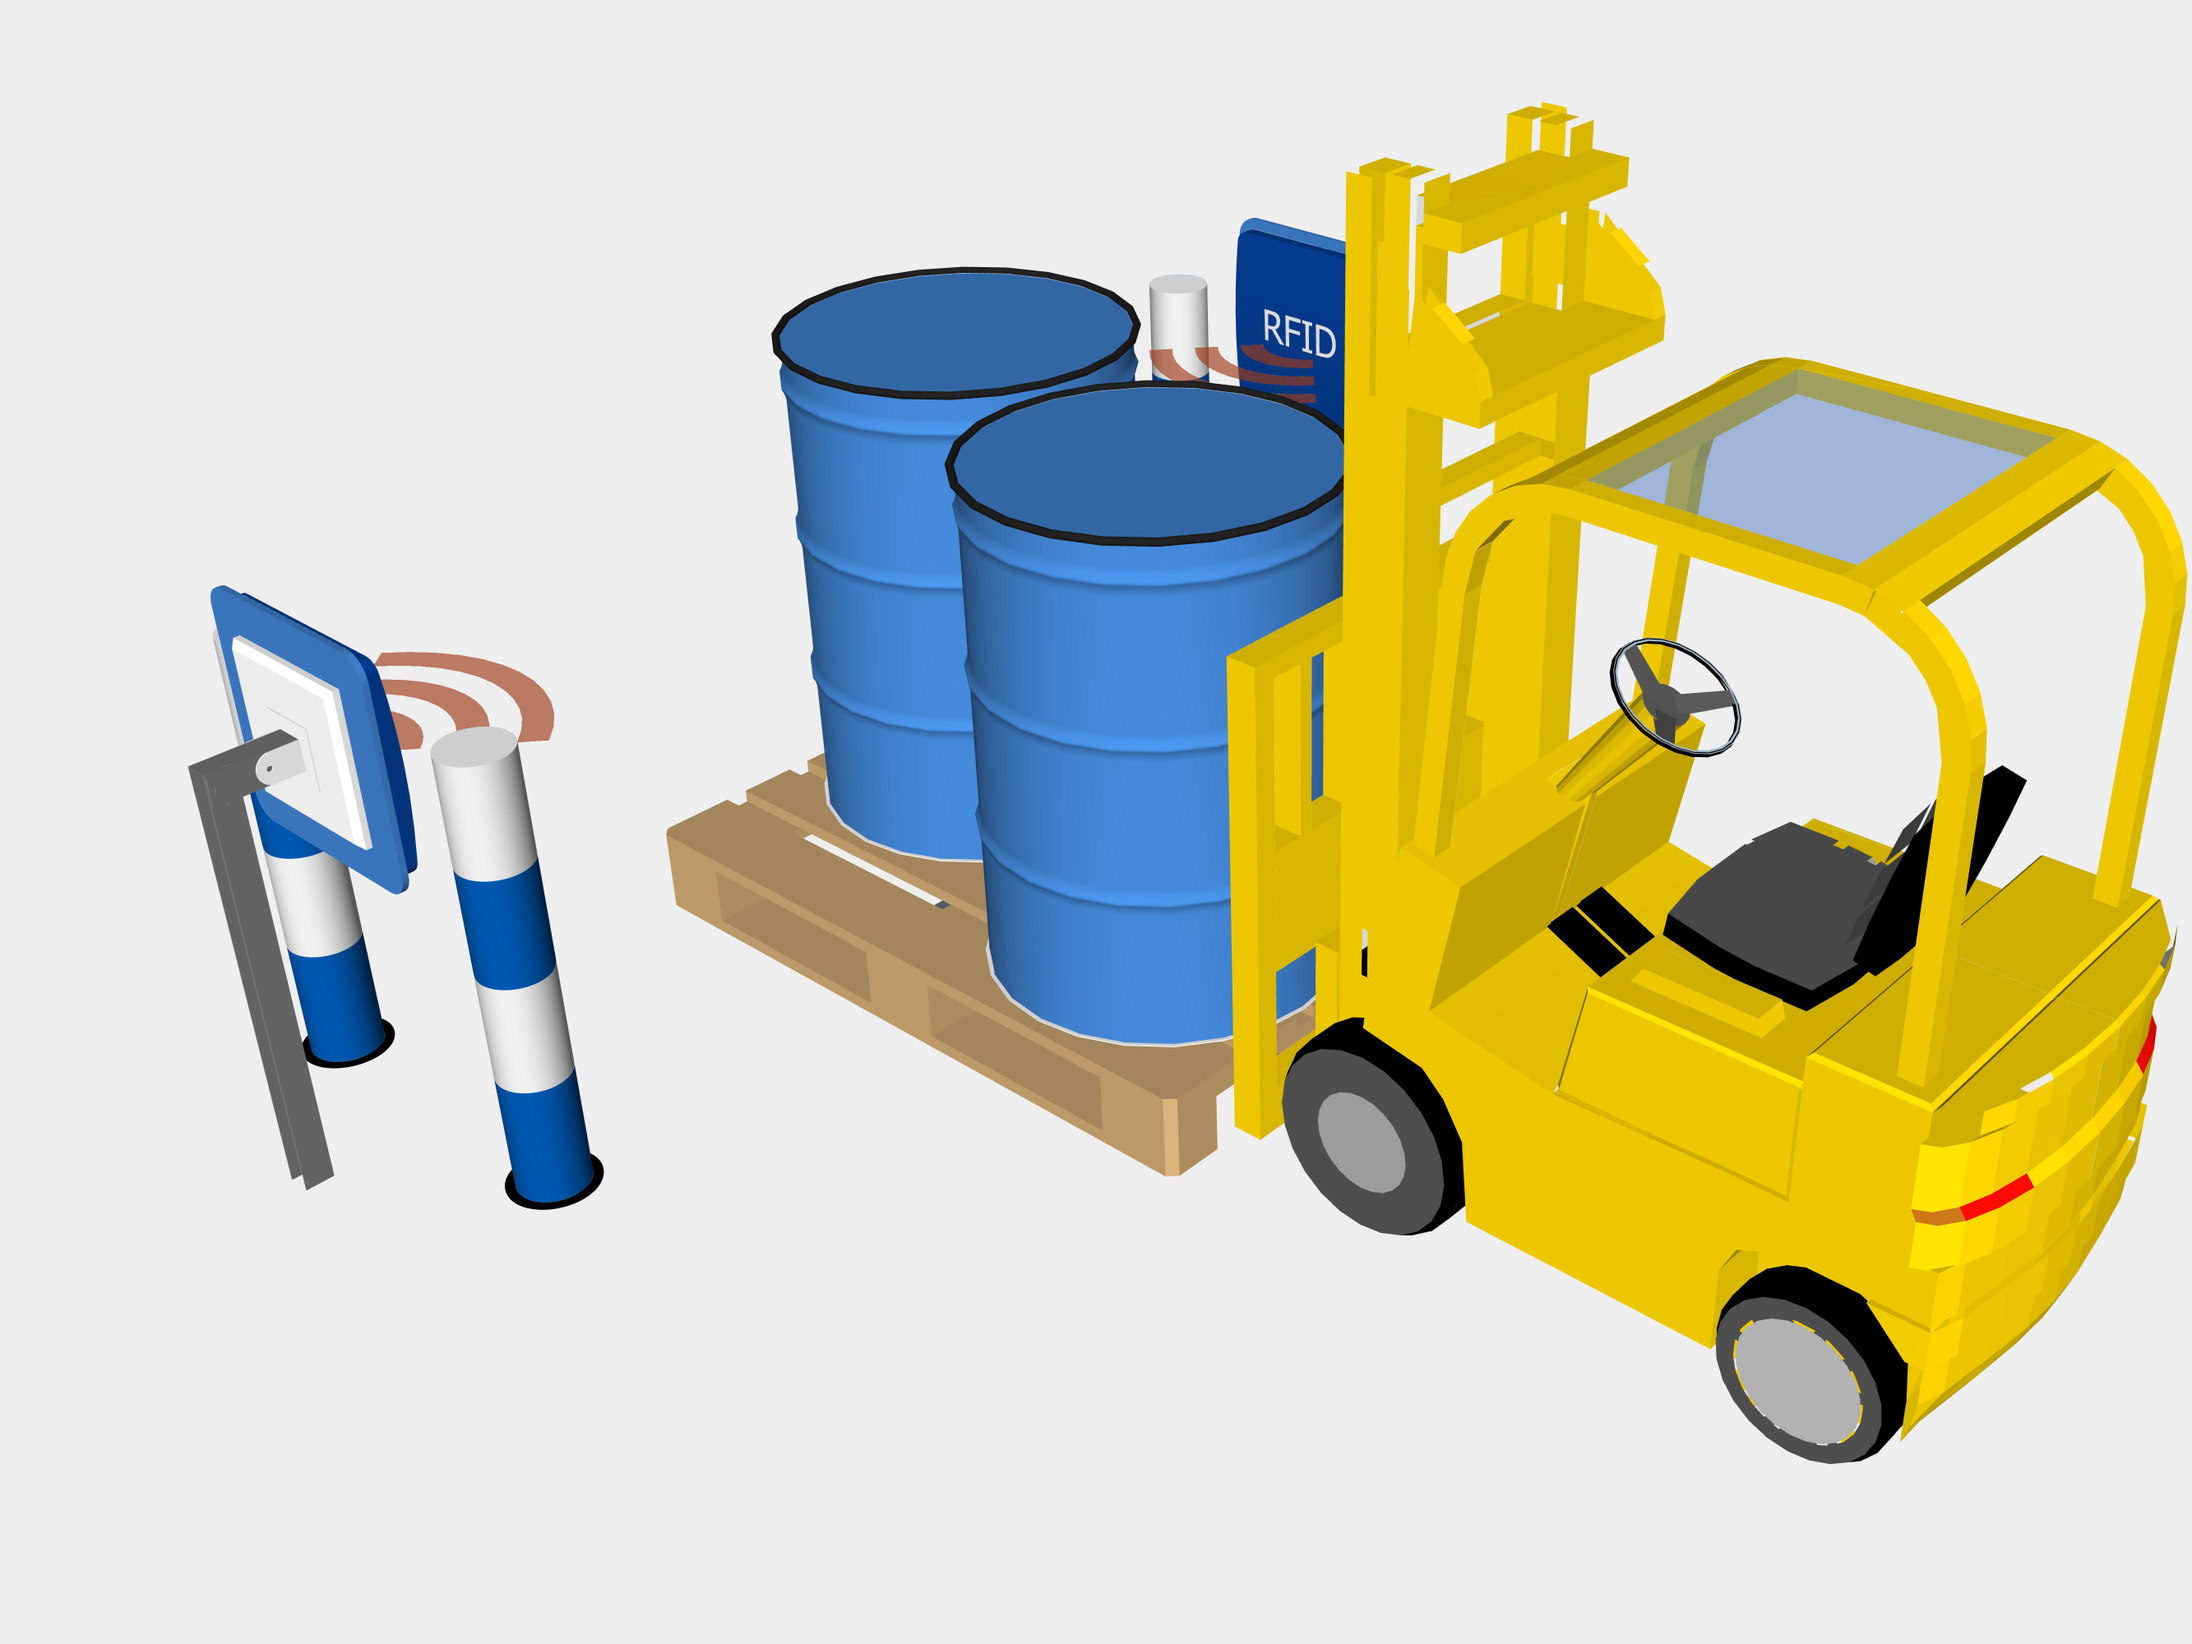
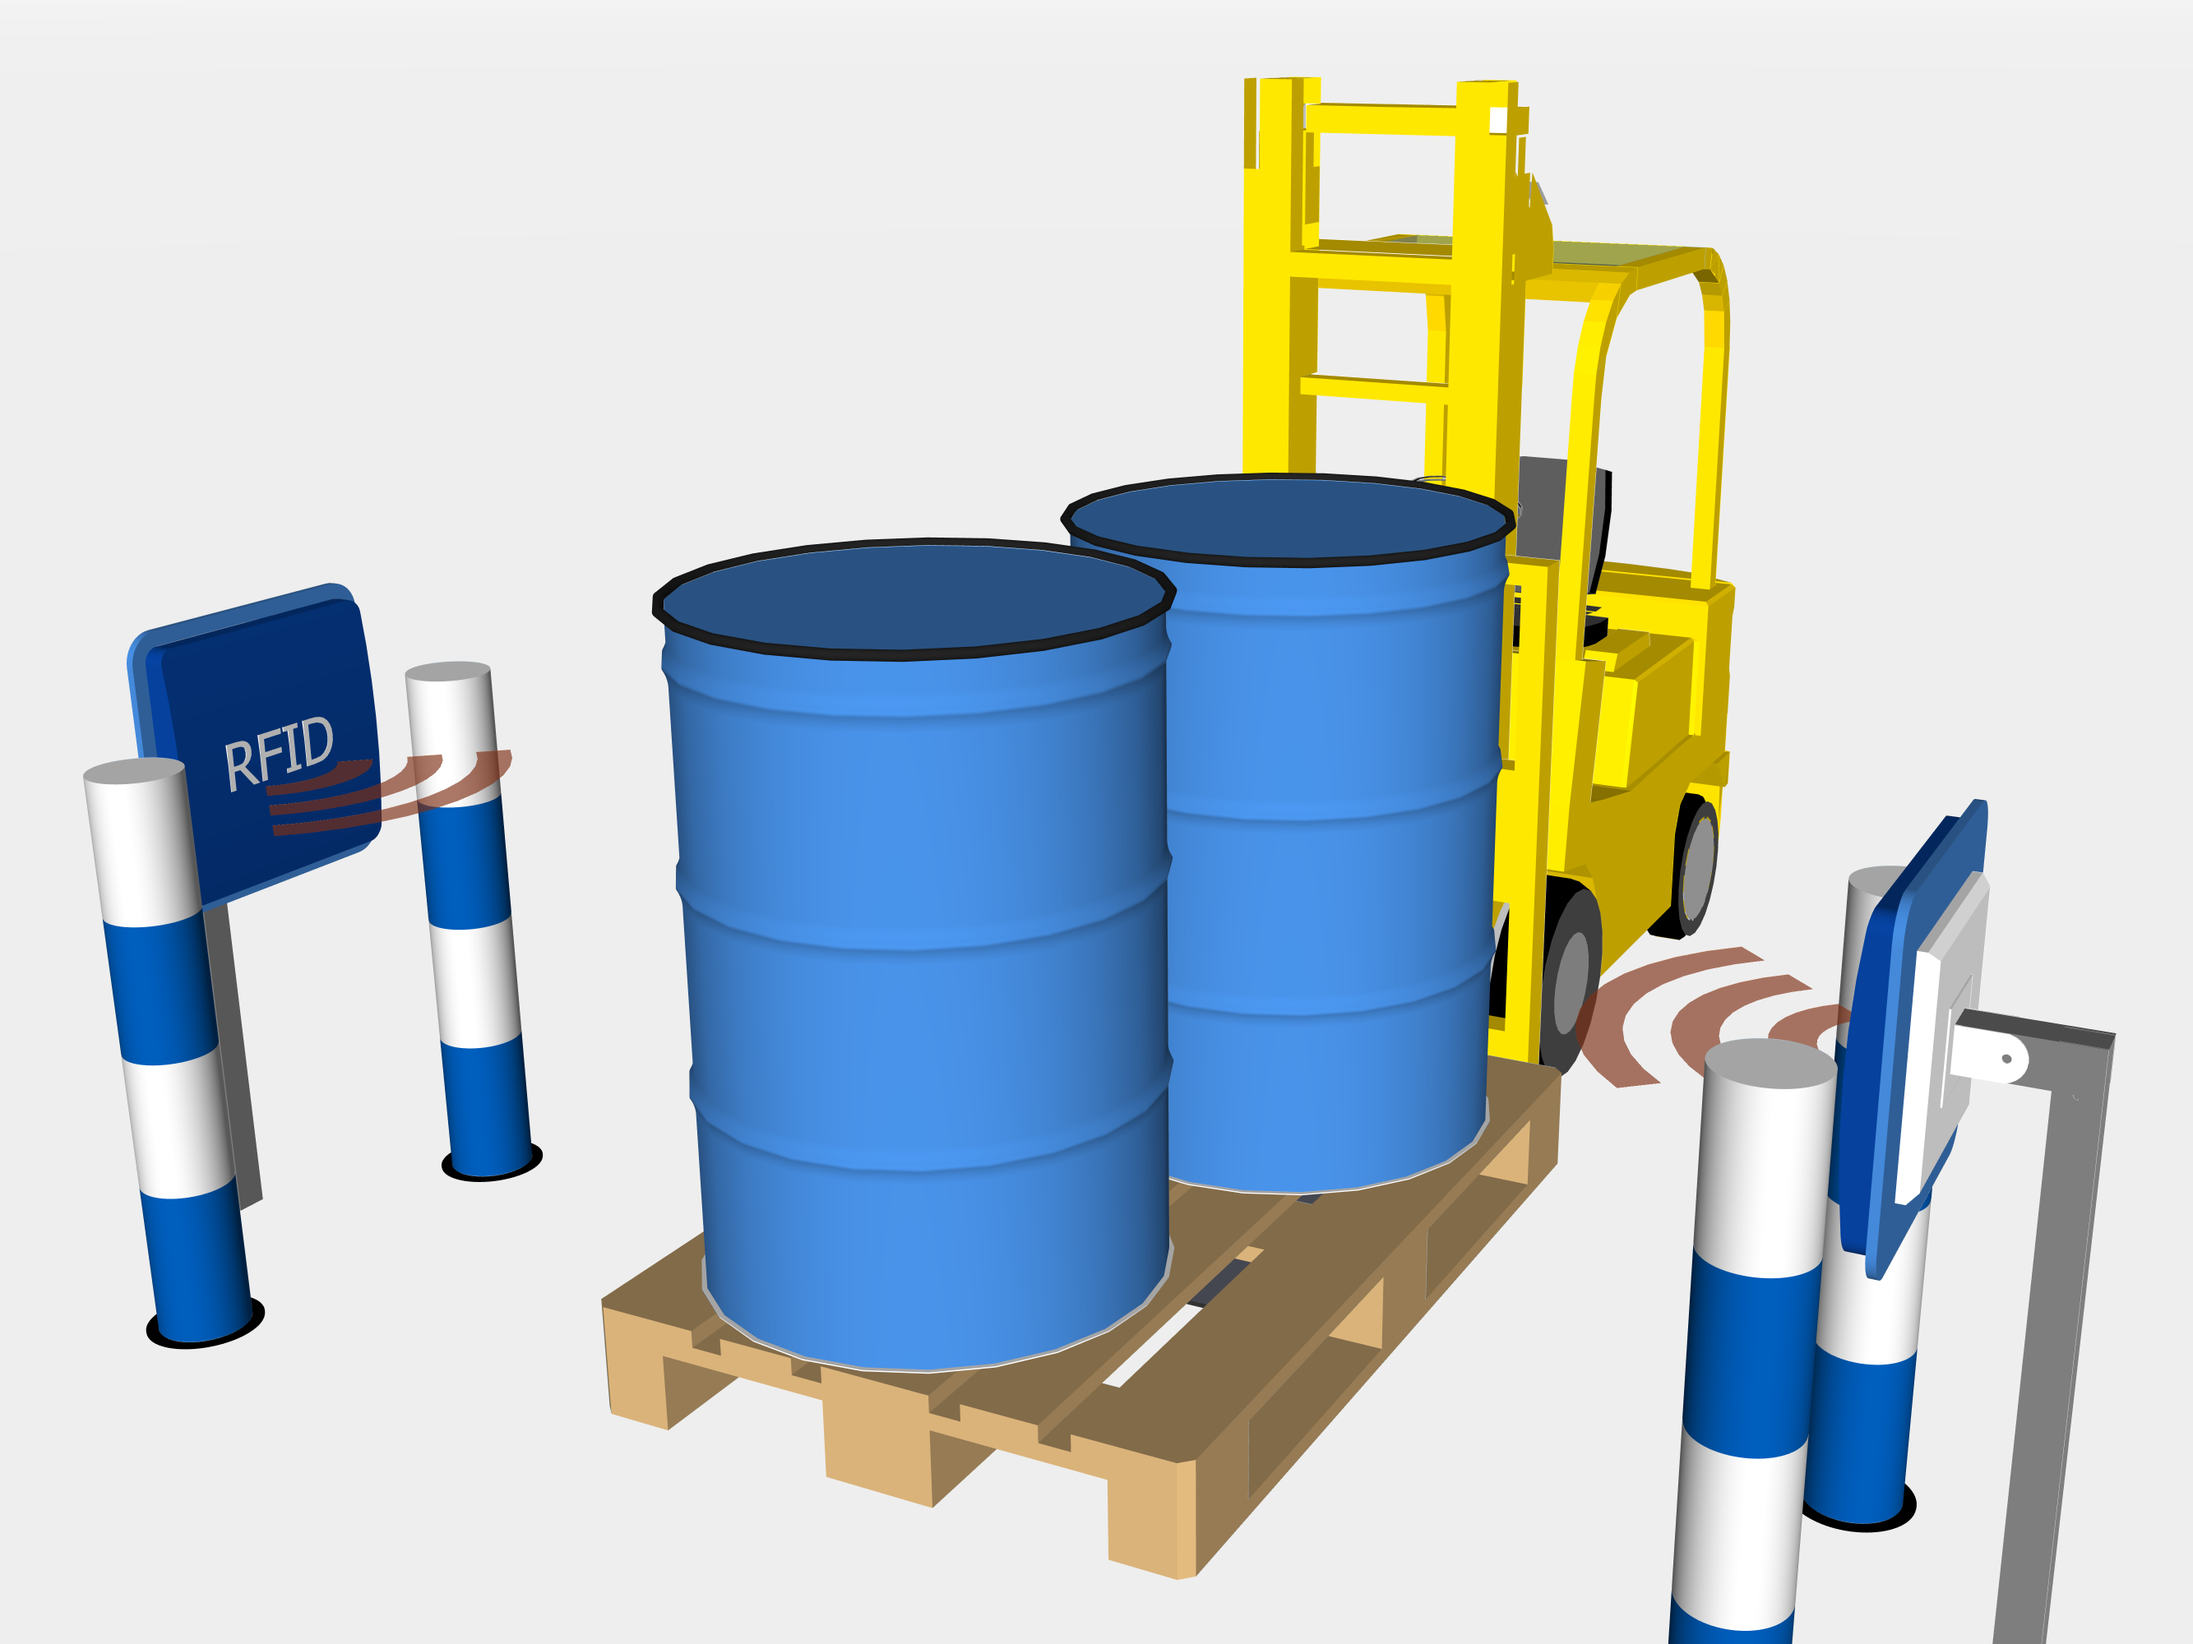
use case images | 0.9989

diff --git a/src/views/Makitapi/1Landing/data.ts b/src/views/Makitapi/1Landing/data.ts
@@ -58,12 +58,12 @@ import avatar18 from '@/assets/img/avatar/18.jpg'
 import inventory1 from '@/assets/img/useCases/gate1.png'
 import inventory2 from '@/assets/img/useCases/tunnel1.png'
 import inventory3 from '@/assets/img/useCases/arch1.png'
-import inventory4 from '@/assets/img/useCases/04.jpg'
+import inventory4 from '@/assets/img/useCases/vas1.png'
 
 import production1 from '@/assets/img/useCases/inline1.png'
 import production2 from '@/assets/img/useCases/assortment1.png'
 import production3 from '@/assets/img/useCases/kanban1.png'
-import production4 from '@/assets/img/useCases/inline1.png'
+import production4 from '@/assets/img/useCases/sorter1.png'
 import production0 from '@/assets/img/useCases/production0.png'
 
 import industries1 from '@/assets/img/useCases/01.jpg'
@@ -482,16 +482,16 @@ export const WhyMakitapi: ServiceType[] = [
 
 export const inventory: IndustryType[] = [
   {
+    image: inventory4,
+    title: 'Value Added Stations',
+    description: "RFID value-added stations serve as quality checkpoints, ensuring accuracy during pallet, container, and box assembly. They enable real-time audits as items are loaded, providing detailed documentation of load composition. Tags capture individual item data for verification against order specifications while creating full traceability records.",
+    key: 'vas'
+  },
+  {
     image: inventory1,
     title: 'Gates',
     description: 'RFID gates offer automated bulk detection, significantly reducing processing time and errors. They integrate with visual indicators like stack lights, printers, and displays to provide comprehensive operational awareness and clear visibility of all material movements through seamless, remote monitoring capabilities.',
     key: 'gates'
-  },
-  {
-    image: inventory2,
-    title: 'Tunnels',
-    description: 'RFID tunnels enable rapid identification of multiple items at high conveyor speeds in high tag density scenarios. They automatically transmit critical data—material verification, location, and timestamps—directly to host IT systems without manual intervention. Near-real-time integration with WMS, ERP, and quality assurance platforms maximizes operational value.',
-    key: 'tunnels'
   },
   {
     image: inventory3,
@@ -500,10 +500,10 @@ export const inventory: IndustryType[] = [
     key: 'arches'
   },
   {
-    image: inventory4,
-    title: 'Value Added Stations',
-    description: "RFID value-added stations serve as quality checkpoints, ensuring accuracy during pallet, container, and box assembly. They enable real-time audits as items are loaded, providing detailed documentation of load composition. Tags capture individual item data for verification against order specifications while creating full traceability records.",
-    key: 'vas'
+    image: inventory2,
+    title: 'Tunnels',
+    description: 'RFID tunnels enable rapid identification of multiple items at high conveyor speeds in high tag density scenarios. They automatically transmit critical data—material verification, location, and timestamps—directly to host IT systems without manual intervention. Near-real-time integration with WMS, ERP, and quality assurance platforms maximizes operational value.',
+    key: 'tunnels'
   }
 ]
 

diff --git a/src/views/Makitapi/2UseCases/components/Industries.vue b/src/views/Makitapi/2UseCases/components/Industries.vue
@@ -72,7 +72,7 @@ import { inventory } from '@/views/Makitapi/1Landing/data'
 import { production } from '@/views/Makitapi/1Landing/data'
 
 // Separate refs for each section, initialized with first item's key
-const showInventory = ref('gates')
+const showInventory = ref('vas')
 const showProduction = ref('inline')
 </script>
 
